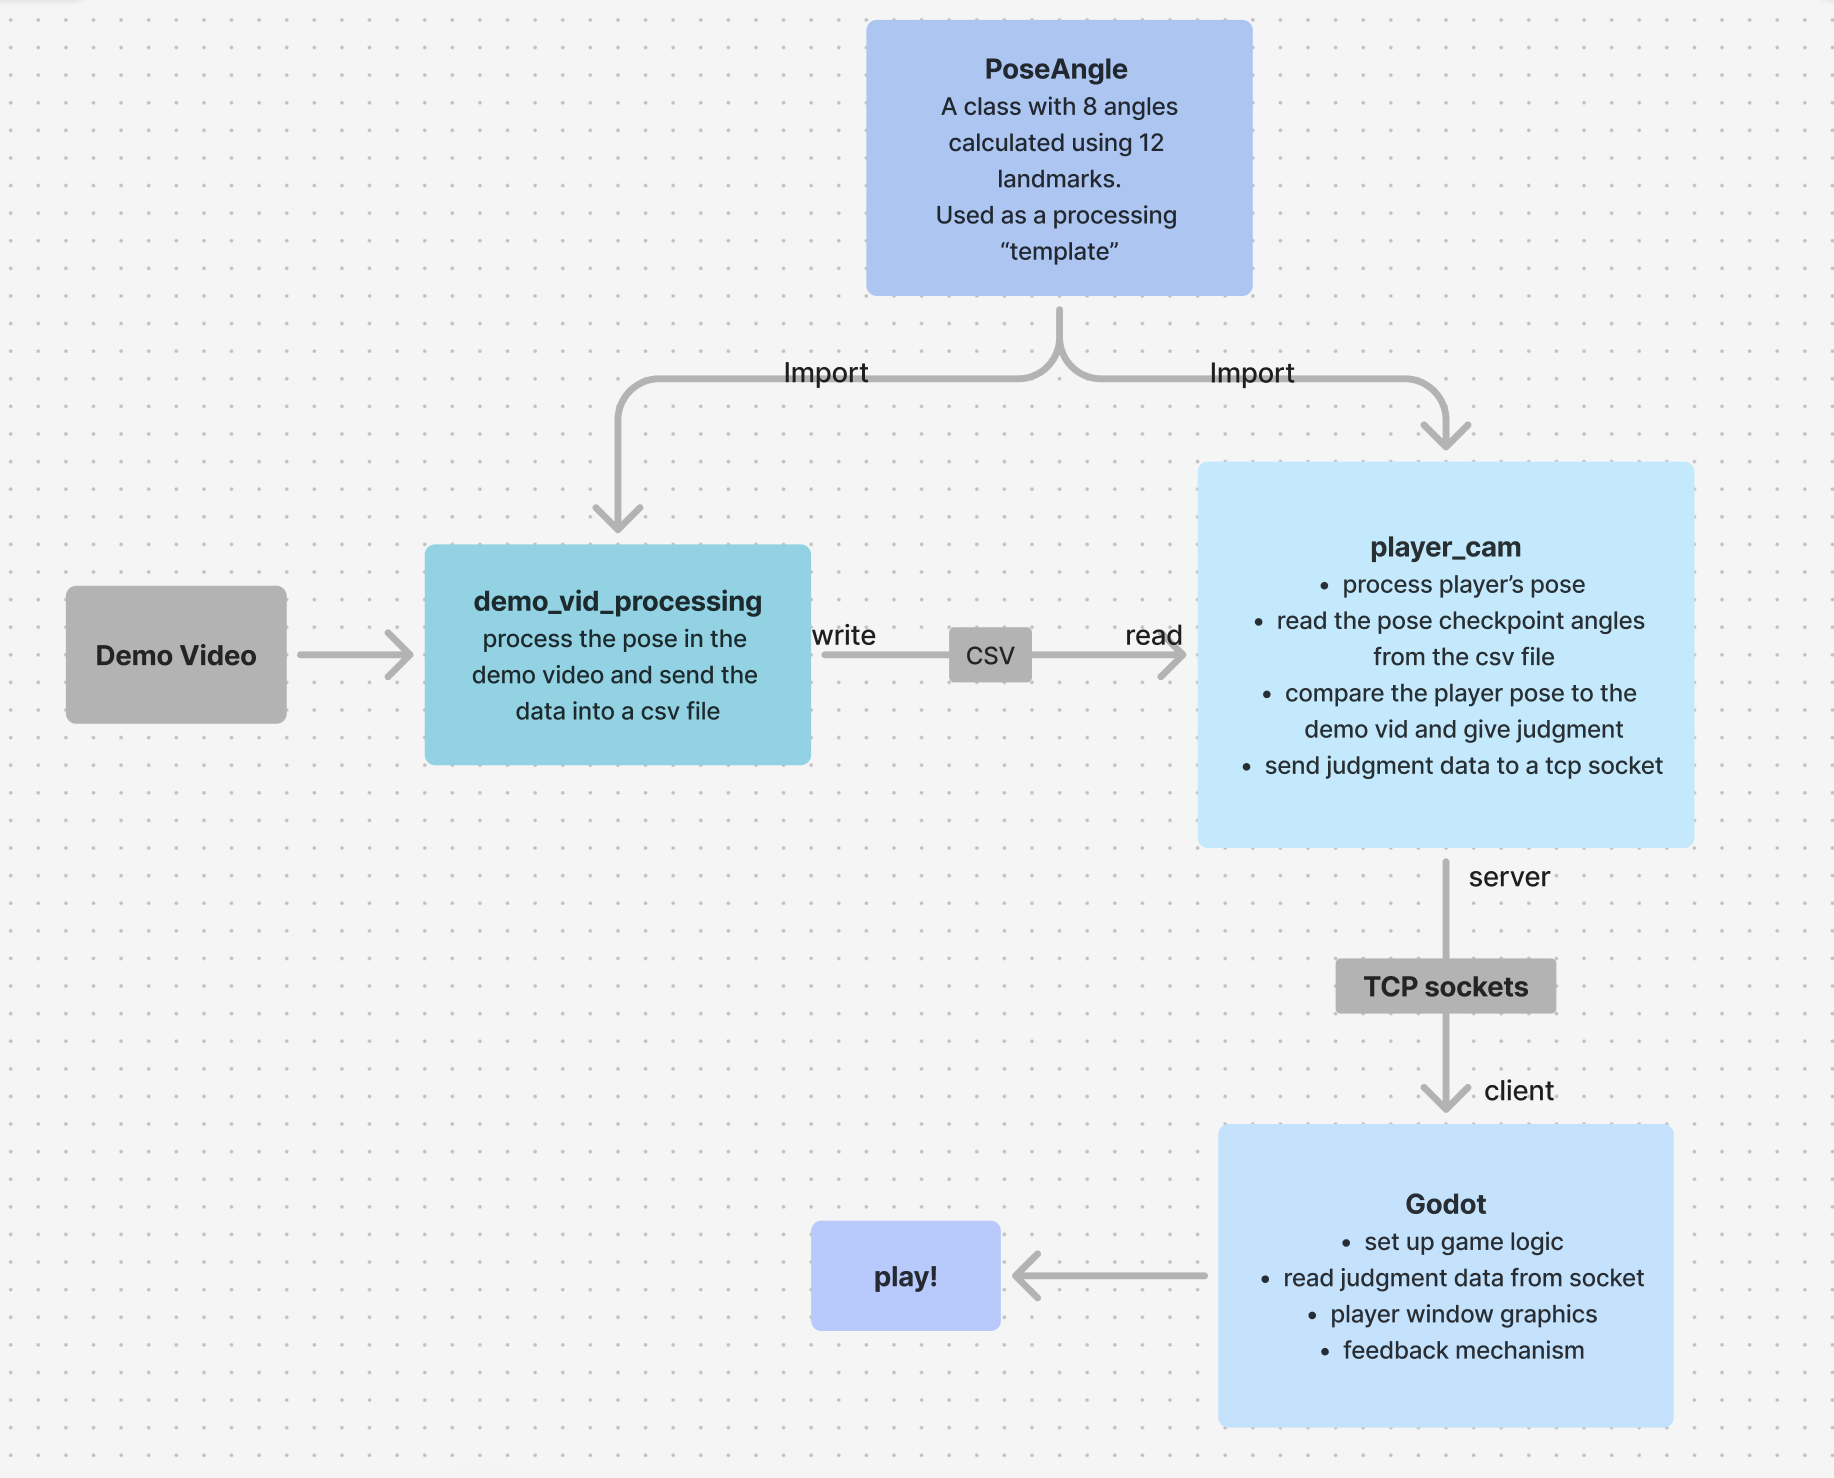
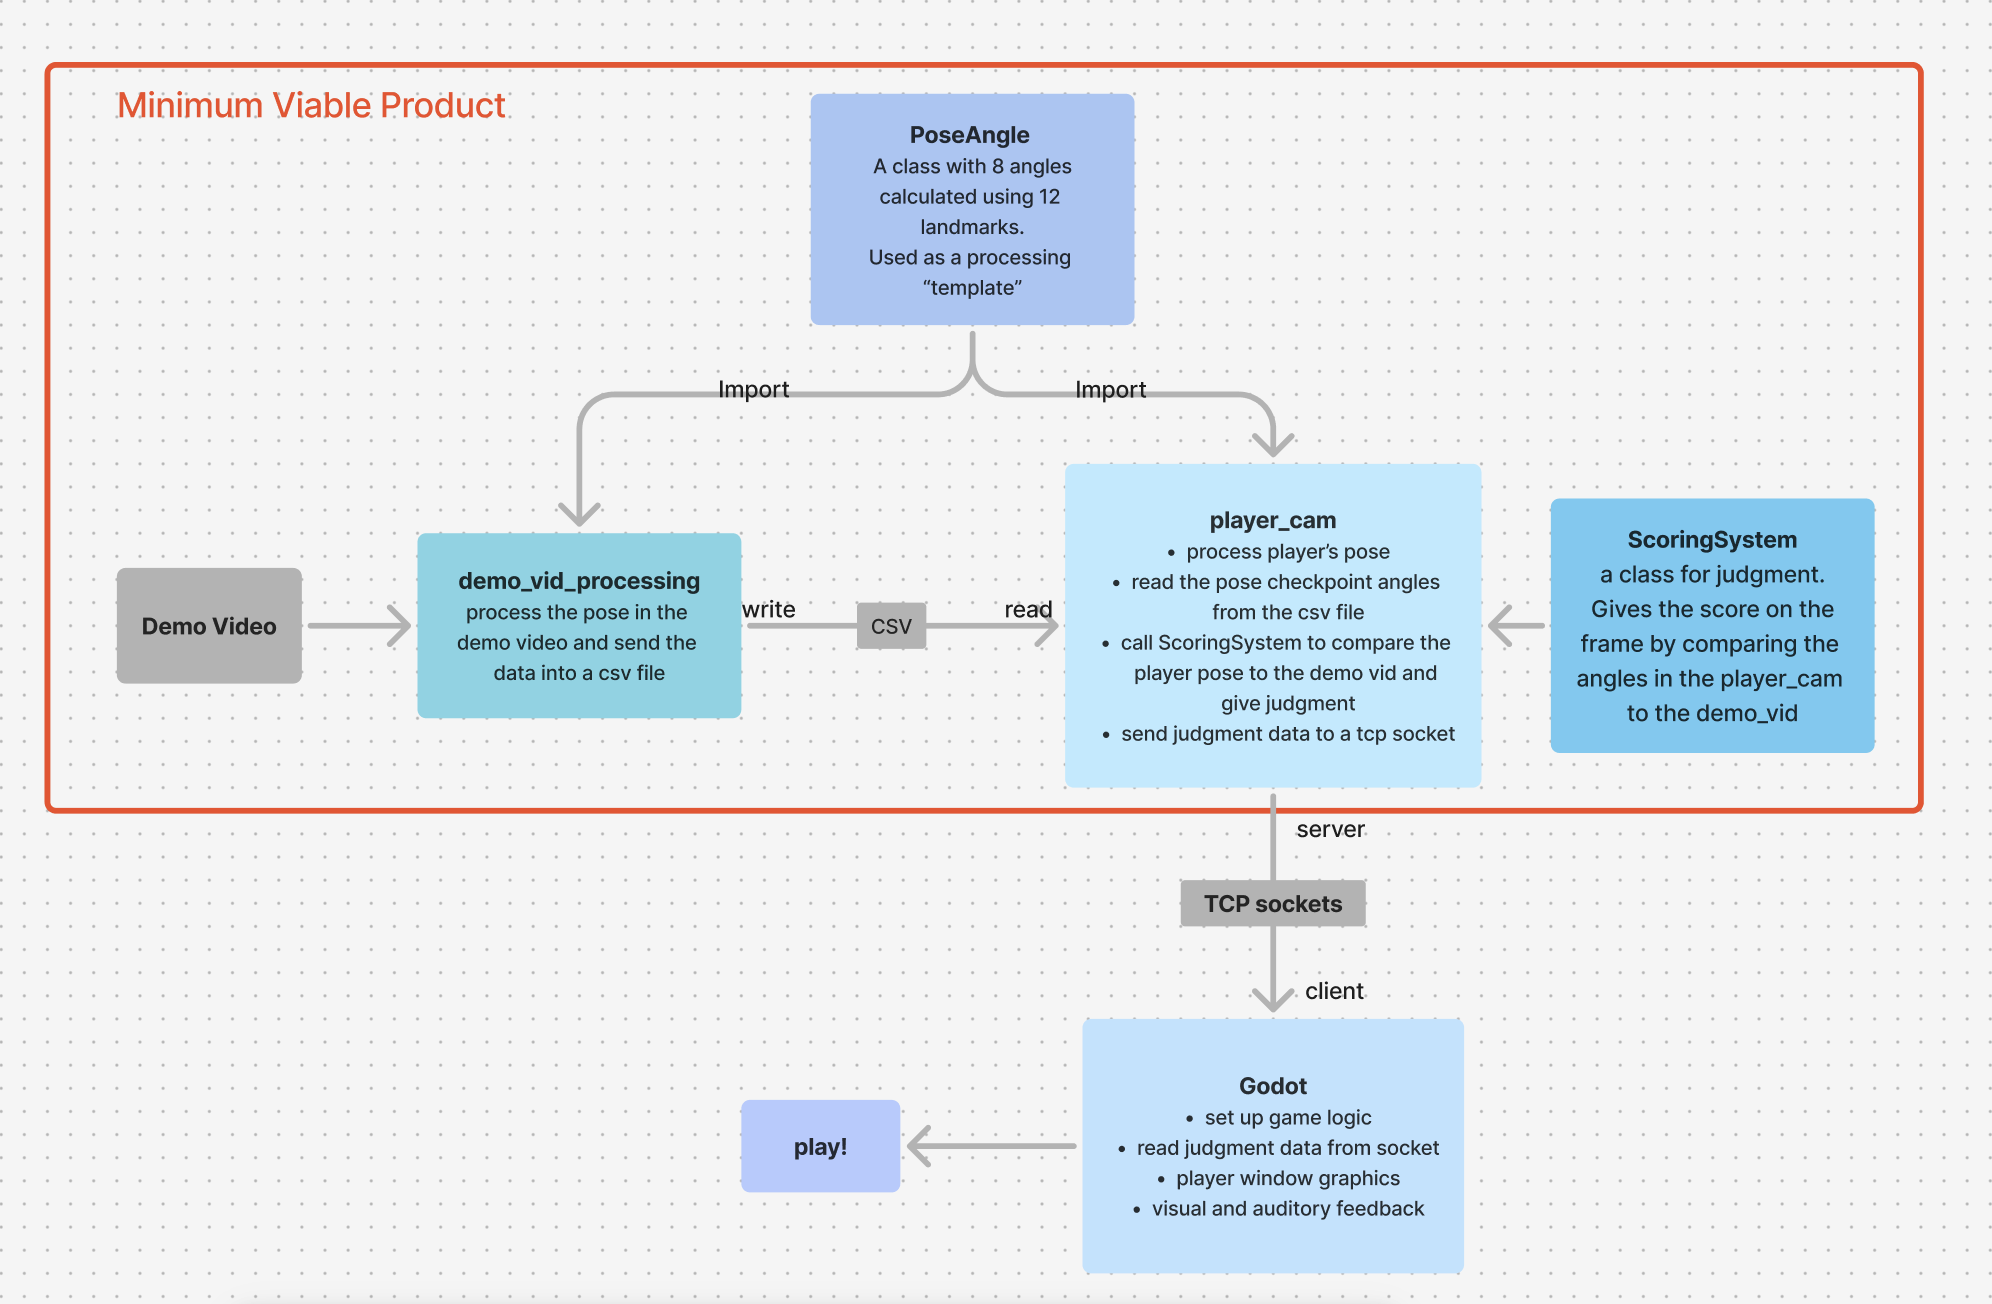
Meet the MVP standard
Add performance classification and count down

diff --git a/player_cam.py b/player_cam.py
@@ -2,6 +2,7 @@ import cv2
 import mediapipe as mp
 import numpy as np
 import csv
+import time
 from angle_calculation import PoseAngle
 from scoring import ScoringSystem
 
@@ -9,27 +10,6 @@ demo_video = 'assets/Macarena.mp4'
 
 mp_drawing = mp.solutions.drawing_utils
 mp_pose = mp.solutions.pose
-
-def judge(angle, player_image, joint1, joint2, player_frame_shape, standard=90):
-    height, width, _ = player_frame_shape
-    
-    # Convert normalized landmarks to pixel coordinates
-    joint1_pixel = tuple(np.multiply(joint1, [width, height]).astype(int))
-    joint2_pixel = tuple(np.multiply(joint2, [width, height]).astype(int))
-    
-    # Calculate color based on angle
-    unit = 255 // 50
-    colour_offset = abs(angle - standard) * unit
-    R = min(255, colour_offset)
-    G = max(0, 255 - colour_offset)
-    line_colour = (0, G, R)  # has to be a tuple
-
-    if np.array_equal(joint1, np.zeros(2)) or np.array_equal(joint2, np.zeros(2)):
-         return
-    
-    else:
-        # Draw the line between elbow and wrist
-        cv2.line(player_image, joint1_pixel, joint2_pixel, line_colour, 20)
 
 # Open the csv file for reading inside the while loop later
 csv_file_path = 'demo_angles.csv'
@@ -48,8 +28,58 @@ player_cap = cv2.VideoCapture(0)
 # declare a list to hold demo angles read from the csv file
 demo_angles = []
 
+player_total_score = 0
+demo_total_score = 12288 # got from running demo_vid_processing
+# TODO: automation in grabbing the demo_total_score
+
+def countdown(player_cap):
+    """
+    this function is for displaying a 3 second count down at the start of the camera feed
+    """
+    start_time = time.time()
+    countdown_secs = 3  # countdown from 3 seconds
+
+    while True:
+        ret_player, player_frame = player_cap.read()
+        if not ret_player:
+            break
+
+        player_frame = cv2.flip(player_frame, 1)
+        player_frame_shape = player_frame.shape
+
+        # Display countdown at the center of the player frame
+        elapsed_time = time.time() - start_time
+        remaining_time = countdown_secs - int(elapsed_time)
+
+        if remaining_time > 0:
+            text = str(remaining_time)
+            font = cv2.FONT_HERSHEY_SIMPLEX
+            font_scale = 7
+            thickness = 20
+            color = (0, 255, 255)  # yellow color for the countdown
+
+            # Calculate position to center the text
+            (text_width, text_height), baseline = cv2.getTextSize(text, font, font_scale, thickness)
+            x = (player_frame.shape[1] - text_width) // 2
+            y = (player_frame.shape[0] + text_height) // 2
+
+            cv2.putText(player_frame, text, (x, y), font, font_scale, color, thickness, cv2.LINE_AA)
+            cv2.imshow('Player Feed with Countdown', player_frame)
+        else:
+            break
+
+        if cv2.waitKey(10) & 0xFF == ord('q'):
+            break
+
+countdown(player_cap)
+
+
 ## Setup mediapipe instance
 with mp_pose.Pose(min_detection_confidence=0.8, min_tracking_confidence=0.8) as pose:
+
+    # Store the last frame of the demo video
+    last_demo_frame = None
+
     while player_cap.isOpened():
         ret_player, player_frame = player_cap.read()
 
@@ -58,10 +88,13 @@ with mp_pose.Pose(min_detection_confidence=0.8, min_tracking_confidence=0.8) as 
 
         # Handle demo video
         ret_demo, demo_frame = demo_cap.read()
-        if not ret_demo:
-            # If the demo video ends, reset the video capture (loop)
-            demo_cap.set(cv2.CAP_PROP_POS_FRAMES, 0)
-            ret_demo, demo_frame = demo_cap.read()
+
+        if ret_demo:
+            last_demo_frame = demo_frame  # Keep track of the last available frame
+        else:
+            demo_frame = last_demo_frame  # If the demo video ends, keep showing the last frame
+
+
 
         # Resize demo video to fit in the top-left corner
         demo_frame_resized = cv2.resize(demo_frame, (810, 540))
@@ -100,16 +133,20 @@ with mp_pose.Pose(min_detection_confidence=0.8, min_tracking_confidence=0.8) as 
             scoring = ScoringSystem(csv_reader, line_index)
             frame_score = scoring.get_frame_score(player, player_image, player_frame_shape)
             print(frame_score)
+            player_total_score += frame_score
 
 
         except Exception as e:
             print(e)
 
-        # ensure that the line index for the csv file is not out of range
-        if line_index == len(csv_reader) - 1:
-                line_index = 1  # loop if reach end of file
-        else:
-            line_index += 1
+        # # ensure that the line index for the csv file is not out of range
+        # if line_index == len(csv_reader) - 1:
+        #         line_index = 1  # loop if reach end of file
+        # else:
+        line_index += 1
+        
+        if not ret_demo:
+            scoring.display_overall_performance(demo_total_score, player_total_score, player_image)
 
         cv2.imshow('Player Feed with Demo', player_image)
 

diff --git a/scoring.py b/scoring.py
@@ -6,6 +6,7 @@ class ScoringSystem:
     def __init__(self, standard_file, line_index: int) -> None:
         self.angle_list = standard_file
         self.line_index = line_index
+        self.demo_total_score = 0
 
         self.standard_list = self.get_standard_list(standard_file, line_index)
         self.demo_left_elbow_angle = float(self.standard_list[0])  # Left elbow angle
@@ -98,3 +99,33 @@ class ScoringSystem:
         # total score is easily accessible, but I need to NOT compare the angle if it's "invisible",
         # lable it in some way?
     
+    def display_overall_performance(self, demo_total_score, player_total_score, player_image) -> None:
+
+        performance: str = None
+
+        if 0.75 * demo_total_score <= player_total_score <= demo_total_score:
+            performance = "CLASS S"
+        elif 0.5 * demo_total_score <= player_total_score < demo_total_score * 0.75:
+            performance = "CLASS A"
+        elif 0.25 * demo_total_score <= player_total_score < demo_total_score * 0.5:
+            performance = "CLASS B"
+        elif 0 <= player_total_score < demo_total_score * 0.25:
+            performance = "CLASS C"
+        else:
+            pass
+
+        font = cv2.FONT_HERSHEY_SIMPLEX
+        font_scale = 7
+        thickness = 20
+        color = (0, 255, 255)
+        
+         # Calculate position to center the text
+        (text_width, text_height), baseline = cv2.getTextSize(performance, font, font_scale, thickness)
+        x = (player_image.shape[1] - text_width) // 2
+        y = (player_image.shape[0] + text_height) // 2
+
+        cv2.putText(player_image, performance, (x, y), font, font_scale, color, thickness, cv2.LINE_AA)
+
+
+
+
